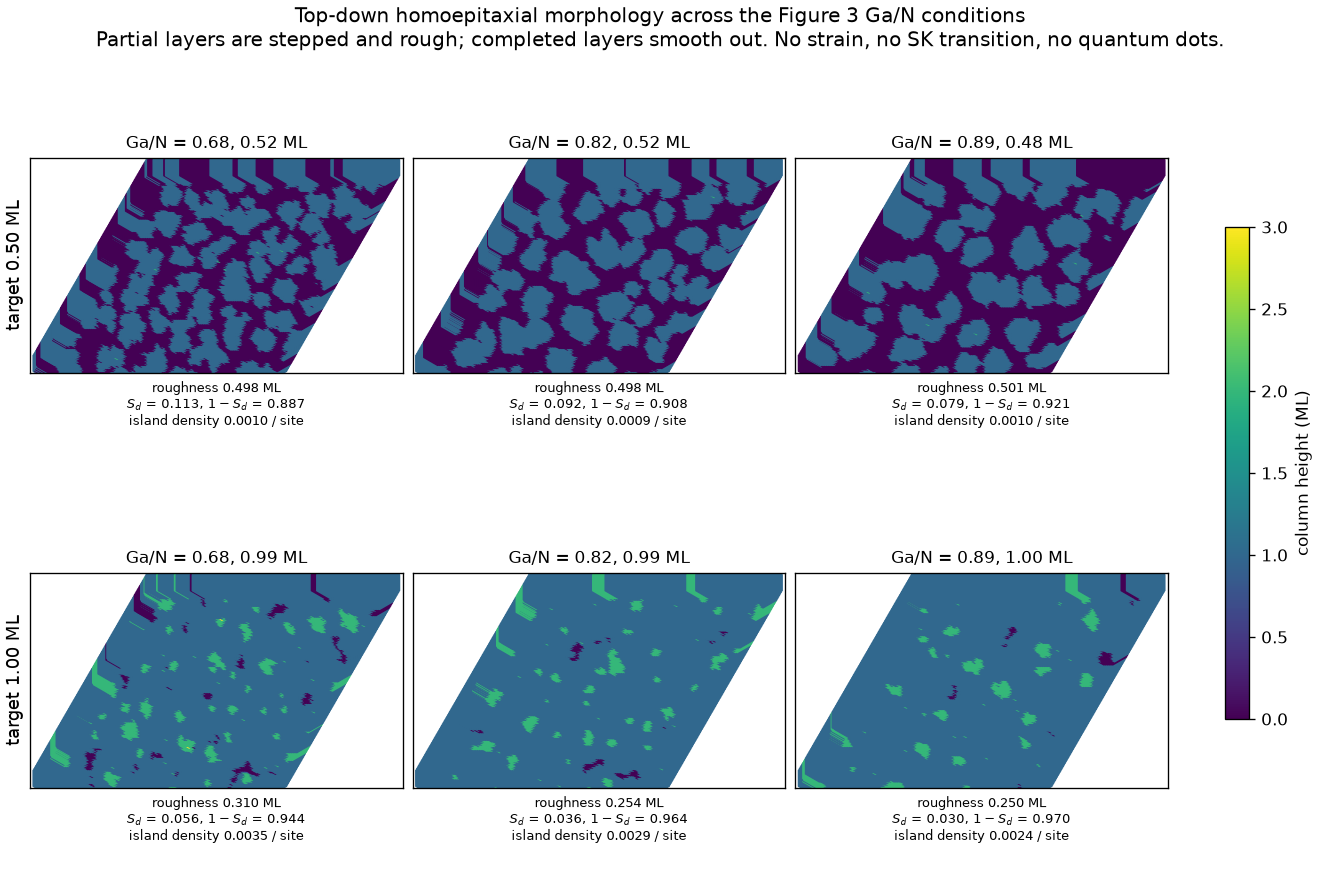
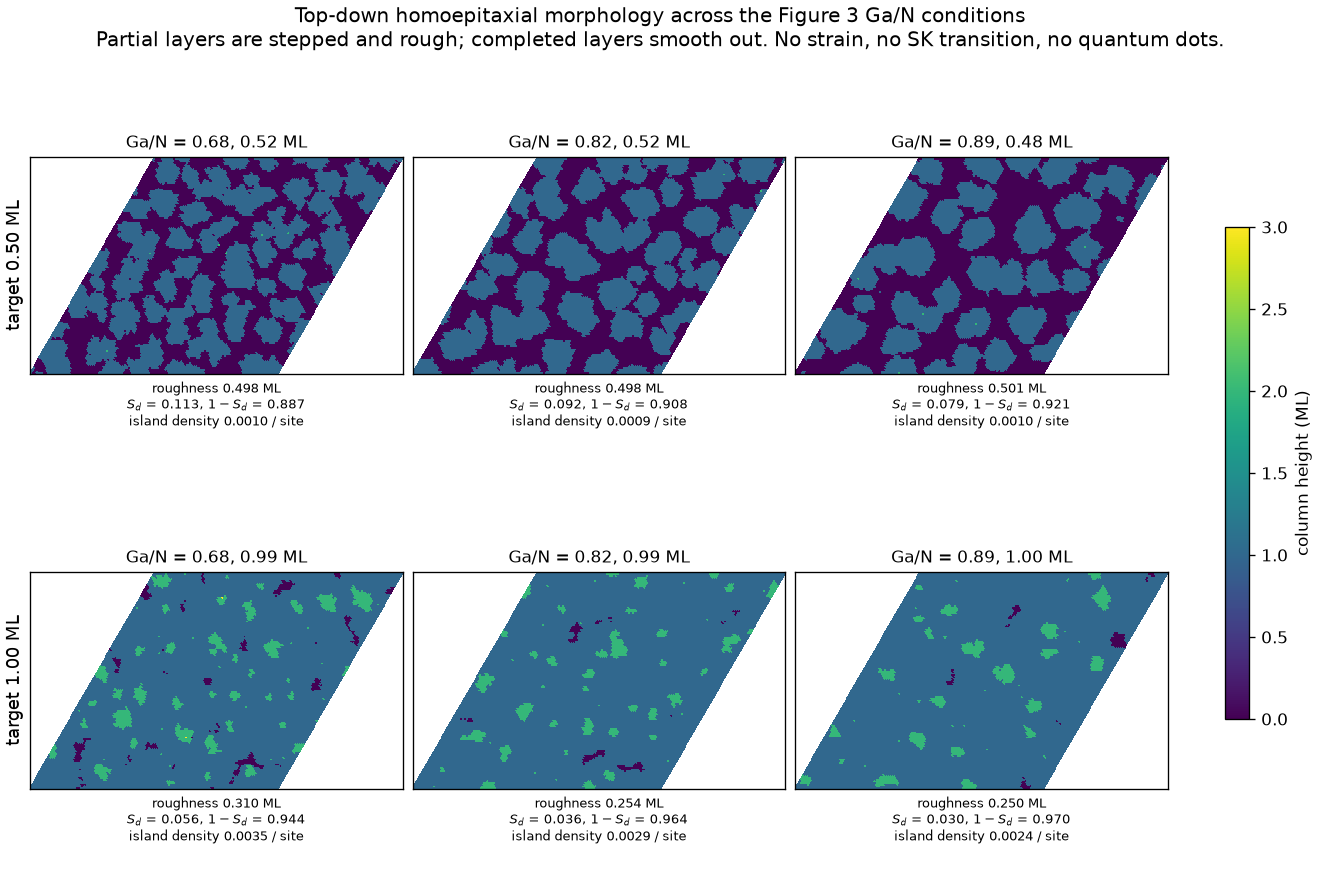
fixes to the plots + add some text

Changed region(s): [[0.0, 0.152, 0.9008, 0.4865], [0.0, 0.6081, 0.9008, 0.9426]]

diff --git a/scripts/figure3_plots.py b/scripts/figure3_plots.py
@@ -12,6 +12,7 @@ import matplotlib
 matplotlib.use("Agg")
 import matplotlib.pyplot as plt
 import numpy as np
+from matplotlib.collections import PolyCollection
 
 MORPHOLOGY_TARGETS_ML = (0.0, 0.5, 1.0, 1.5, 2.0)
 # Rows of the 2x3 montage: a half-filled layer beside a completed one.
@@ -19,6 +20,43 @@ MONTAGE_COVERAGES_ML = (0.5, 1.0)
 # The two figures copied into assets/ by `make readme-figures` are fetched on every GitHub
 # README load, where the column is under 900 px wide, so print resolution only costs bytes.
 README_DPI = 120
+
+
+# The surface is a triangular lattice in axial coordinates, so each site's Voronoi cell is a
+# pointy-top hexagon of circumradius 1/sqrt(3) - flat-to-flat exactly the nearest-neighbour
+# distance, so the cells tile the rhombus without gaps or overlap. Oversized scatter markers
+# used to do this job and smeared the slanted boundaries where they overlapped and clipped.
+_HEX_CELL = np.column_stack(
+    (
+        np.cos(np.deg2rad(np.arange(30.0, 360.0, 60.0))),
+        np.sin(np.deg2rad(np.arange(30.0, 360.0, 60.0))),
+    )
+) / np.sqrt(3.0)
+
+
+def _draw_hex_cells(axis, heights: np.ndarray, maximum_height: int) -> PolyCollection:
+    """Fill one hexagonal cell per lattice site, coloured by that column's integer height."""
+    heights = np.asarray(heights)
+    row, column = np.indices(heights.shape)
+    # Axial to Cartesian: x = q + r/2, y = sqrt(3) r / 2 (column is q, row is r).
+    centers = np.column_stack(
+        (column.ravel() + 0.5 * row.ravel(), np.sqrt(3.0) / 2.0 * row.ravel())
+    )
+    collection = PolyCollection(
+        centers[:, None, :] + _HEX_CELL[None, :, :],
+        array=heights.ravel().astype(float),
+        cmap="viridis",
+        edgecolors="face",
+        linewidths=0.0,
+        antialiaseds=False,
+    )
+    collection.set_clim(0, max(1, maximum_height))
+    axis.add_collection(collection)
+    margin = 1.0 / np.sqrt(3.0)
+    axis.set_xlim(centers[:, 0].min() - margin, centers[:, 0].max() + margin)
+    axis.set_ylim(centers[:, 1].min() - margin, centers[:, 1].max() + margin)
+    axis.set_aspect("equal")
+    return collection
 
 
 def plot_comparison(traces: list[dict[str, object]], figure_dir: Path) -> None:
@@ -119,19 +157,9 @@ def morphology_sequence(
     ]
 
     figure, axes = plt.subplots(1, len(frames), figsize=(12, 2.8), constrained_layout=True)
-    y, x = np.indices(result.final_heights.shape)
     maximum_height = max(max(max(row) for row in frame["height_ml"]) for frame in frames)
     for axis, frame in zip(axes, frames, strict=True):
-        image = axis.scatter(
-            x + 0.5 * y,
-            np.sqrt(3.0) / 2.0 * y,
-            c=np.asarray(frame["height_ml"]),
-            marker="h",
-            s=190,
-            cmap="viridis",
-            vmin=0,
-            vmax=max(1, maximum_height),
-        )
+        image = _draw_hex_cells(axis, np.asarray(frame["height_ml"]), maximum_height)
         axis.set_title(
             f"target {frame['target_predicted_coverage_ml']:.1f} ML\n"
             f"actual {frame['predicted_coverage_ml']:.2f} ML"
@@ -197,21 +225,7 @@ def morphology_montage(runs: list[dict[str, object]], figure_dir: Path) -> dict[
         row = MONTAGE_COVERAGES_ML.index(panel["target_predicted_coverage_ml"])
         column = ratios.index(panel["nominal_ga_n_ratio"])
         axis = axes[row, column]
-        heights = np.asarray(panel["height_ml"])
-        y, x = np.indices(heights.shape)
-        image = axis.scatter(
-            x + 0.5 * y,
-            np.sqrt(3.0) / 2.0 * y,
-            c=heights,
-            marker="h",
-            # One marker per site, deliberately overfilled so the map reads as a continuous
-            # surface at any lattice size. Same convention as `morphology_sequence`, rescaled
-            # from its (128 sites, s=190, 2.4 in) panel to this figure's wider ones.
-            s=5.9e6 / len(heights) ** 2,
-            cmap="viridis",
-            vmin=0,
-            vmax=max(1, maximum_height),
-        )
+        image = _draw_hex_cells(axis, np.asarray(panel["height_ml"]), maximum_height)
         axis.set_title(
             f"Ga/N = {panel['nominal_ga_n_ratio']:.2f}, "
             f"{panel['predicted_coverage_ml']:.2f} ML",

diff --git a/notebooks/mbe_rheed.py b/notebooks/mbe_rheed.py
@@ -528,13 +528,41 @@ def _(
             where $S_d$ is the fraction of unique nearest-neighbor bonds whose endpoint heights
             differ. Smooth, nearly complete layers have fewer steps and a larger proxy.
 
-            Below it there is now also an actual diffraction calculation: the **kinematic**
-            detector image, $|\sum_j \exp(-i\,\mathbf{q}\cdot\mathbf{R}_j)|^2$ summed over
-            the column tops of the same surface. It is single scattering only - real RHEED
-            phase and amplitude also depend on refraction, absorption, surface reconstruction,
-            and strong multiple scattering, none of which are modelled - but it does produce
-            the screen, the streaks, and the specular oscillation from first principles rather
-            than by analogy.
+            Below it there is now also an actual diffraction calculation, and it is a
+            different kind of quantity. The probe is a fast electron, so it arrives as a plane
+            wave $\psi_{\mathrm{in}}\sim e^{i\mathbf{k}_i\cdot\mathbf{r}}$; in the
+            **kinematic** (single-scattering) approximation it scatters once off each surface
+            scatterer and the amplitudes add with the phase of the position they came from,
+
+            $$A(\mathbf q)=\sum_j f_j\,e^{-i\,\mathbf q\cdot\mathbf R_j},\qquad
+            \mathbf q=\mathbf k_f-\mathbf k_i,\qquad I(\mathbf q)=|A(\mathbf q)|^2 .$$
+
+            Squaring the sum is where the quantum mechanics is: $|A|^2$ carries a cross term
+            $2f_if_j\cos\!\big(\mathbf q\cdot(\mathbf R_i-\mathbf R_j)\big)$ for every
+            pair of scatterers, so the screen measures *relative positions*. The proxy above
+            discards those phases; this does not.
+
+            On the specular $(00)$ beam the in-plane part of $\mathbf q$ cancels,
+            $\mathbf q=(0,0,q_z)$ with $q_z=2k\sin\theta_i$, so only the column heights
+            survive and the specular trace becomes a layer-occupancy interferometer. Two
+            terraces one monolayer $d$ apart, covering $1-\theta$ and $\theta$ of the surface,
+            differ in phase by $\Delta\phi=q_zd$:
+
+            $$I=|A_1|^2+|A_2|^2+\underbrace{2A_1A_2\cos(q_zd)}_{\text{interference}} .$$
+
+            At the **anti-phase** condition $q_zd=\pi$ (any odd multiple) the cosine is $-1$,
+            the two populations subtract, and normalising on a flat surface leaves
+            $I_{00}(\theta)=(1-2\theta)^2$: bright on a closed layer, dark at half coverage,
+            bright again as the next layer closes - one oscillation per monolayer with no
+            morphology argument in it. At the **in-phase** condition $q_zd=2\pi$ the cosine is
+            $+1$, filling a layer changes nothing, and the oscillation vanishes, which the
+            **Beam condition** control below switches between. Since the heights are integers, only the parity
+            of $q_zd/\pi$ reaches the specular intensity.
+
+            The calculation is single scattering only - real RHEED phase and amplitude also
+            depend on refraction, absorption, surface reconstruction, and strong multiple
+            scattering, none of which are modelled - but it does produce the screen, the
+            streaks, and the specular oscillation from first principles rather than by analogy.
 
             The annotated 0–2 ML milestones encode the **ideal layer-by-layer hypothesis**. The
             linked morphology and proxy show what this stochastic run actually produces;

diff --git a/tests/test_figure_plots.py b/tests/test_figure_plots.py
@@ -1,0 +1,48 @@
+"""Rendering conventions for the static Figure 3/4 morphology panels."""
+
+import sys
+from pathlib import Path
+
+import numpy as np
+
+# `scripts/` is a directory of entry points, not an installed package.
+sys.path.insert(0, str(Path(__file__).resolve().parents[1] / "scripts"))
+
+import matplotlib.pyplot as plt
+from figure3_plots import _draw_hex_cells
+
+
+def test_hex_cells_tile_every_site_exactly_once() -> None:
+    size = 12
+    heights = np.arange(size * size).reshape(size, size) % 3
+    figure, axis = plt.subplots()
+    try:
+        collection = _draw_hex_cells(axis, heights, int(heights.max()))
+        paths = collection.get_paths()
+        # One hexagonal cell per lattice site, coloured by that site's column height.
+        assert len(paths) == size * size
+        assert np.array_equal(collection.get_array(), heights.ravel().astype(float))
+
+        centers = np.asarray([path.vertices[:6].mean(axis=0) for path in paths])
+        row, column = np.indices(heights.shape)
+        expected = np.column_stack(
+            (column.ravel() + 0.5 * row.ravel(), np.sqrt(3.0) / 2.0 * row.ravel())
+        )
+        assert np.allclose(centers, expected)
+        # Cells are the lattice's Voronoi hexagons, so their areas sum to the rhombus area
+        # exactly: no overlap to smear the slanted boundaries, no gaps between sites.
+        areas = []
+        for path in paths:
+            corners = path.vertices[:6]
+            shifted = np.roll(corners, -1, axis=0)
+            areas.append(
+                0.5
+                * abs(
+                    np.sum(corners[:, 0] * shifted[:, 1] - shifted[:, 0] * corners[:, 1])
+                )
+            )
+        assert np.allclose(areas, np.sqrt(3.0) / 2.0)
+        assert np.isclose(np.sum(areas), size * size * np.sqrt(3.0) / 2.0)
+        assert axis.get_aspect() == 1.0
+    finally:
+        plt.close(figure)

diff --git a/tests/test_rheed.py b/tests/test_rheed.py
@@ -318,6 +318,24 @@ def test_a_half_filled_layer_cancels_at_anti_phase_and_survives_in_phase() -> No
     assert in_phase == pytest.approx(1.0)
 
 
+@pytest.mark.parametrize("coverage", [0.0, 0.25, 0.5, 0.75, 1.0])
+def test_the_two_level_specular_intensity_follows_the_interference_law(coverage: float) -> None:
+    """`I_00 = (1 - 2 theta)^2`, the closed form of the two-terrace interference term.
+
+    On the specular rod `q` is purely vertical, so the in-plane phases cancel and a surface
+    with only heights 0 and 1 has amplitude `(1 - theta) + theta exp(-i q_z d)`. At anti-phase
+    that is `1 - 2 theta`, which is the whole oscillation, derived without any morphology
+    argument. The tolerance covers the finite patch: the Gaussian illumination weights sites,
+    so a random arrangement realizes the nominal coverage only to within its own sampling.
+    """
+    size = 64
+    lattice = np.zeros((size, size), dtype=np.int64)
+    filled = round(coverage * size * size)
+    lattice.ravel()[np.random.default_rng(3).permutation(size * size)[:filled]] = 1
+    intensity = float(rheed.specular_intensity(lattice, grazing_angle_deg=ANGLE))
+    assert intensity == pytest.approx((1.0 - 2.0 * coverage) ** 2, abs=0.01)
+
+
 def test_a_flat_surface_is_the_brightest_the_specular_beam_ever_gets() -> None:
     pattern = rheed.diffraction_screen(
         np.zeros((16, 16), dtype=np.int64), grazing_angle_deg=ANGLE

diff --git a/src/mbe_rheed_sim/rheed.py b/src/mbe_rheed_sim/rheed.py
@@ -112,7 +112,14 @@ all: odd order is the anti-phase condition where adjacent terraces cancel, even 
 in-phase where filling a layer changes nothing. `d` is one KMC monolayer of height, taken as
 the GaN c/2 bilayer spacing 0.2593 nm. Because the heights are integers, only the order's
 parity matters to the specular intensity -- orders 1, 3, 5 give identical traces and differ
-only in geometry. `antiphase_grazing_angle_deg` returns the angle that sets a chosen odd
+only in geometry. The in-plane phases cancel on the specular rod, so a surface holding only
+heights 0 and 1 has amplitude `(1 - theta) + theta exp(-i q_z d)`, and at odd order the
+interference term `2 A_1 A_2 cos(q_z d)` enters with `cos = -1`, leaving the closed form
+
+    I_00(theta) = (1 - 2 theta)^2,
+
+one oscillation per monolayer with no morphology argument in it (tested in
+`tests/test_rheed.py`). Even order gives `cos = +1`, where filling a layer changes nothing. `antiphase_grazing_angle_deg` returns the angle that sets a chosen odd
 order, which is what an experimenter tunes for.
 """
 

diff --git a/README.md b/README.md
@@ -167,6 +167,64 @@ from Adelmann et al., 2002), which is the panel this project digitizes and compa
 can be checked that way is period, phase and damping; absolute amplitude cannot, since the two
 signals are different quantities.
 
+### Where the interference is
+
+`1 - S_d` counts step edges and stops there. The reason a step-edge count tracks a measured
+intensity at all is interference, which is what the diffraction module below actually computes, so
+it is worth writing out once.
+
+The probe is a fast electron, so it arrives as a plane wave `exp(i k_i . r)` and, in the kinematic
+approximation, scatters once off each surface scatterer. The scattered amplitudes add with the
+phase of the position they came from, and the detector measures the squared modulus:
+
+```text
+A(q) = sum_j f_j exp(-i q . R_j),    q = k_f - k_i,    I(q) = |A(q)|^2
+```
+
+Squaring the sum is where the quantum mechanics enters. `|A|^2` is not a count of scatterers: it
+carries one cross term `2 f_i f_j cos(q . (R_i - R_j))` per pair, so the screen reports relative
+positions. Nothing else in this project uses the phases; `S_d` throws them away.
+
+On the specular `(00)` beam the in-plane part of `q` vanishes, `q = (0, 0, q_z)` with
+`q_z = 2 k sin(incidence)`, so every in-plane position drops out and only the column heights
+survive. That is why the specular trace is a *layer-occupancy* interferometer. For two terraces one
+monolayer `d` apart, covering fractions `1 - theta` and `theta` of the surface:
+
+```text
+delta_phi = q_z d
+A         = A_1 + A_2 exp(-i delta_phi)
+I         = |A_1|^2 + |A_2|^2 + 2 A_1 A_2 cos(q_z d)
+```
+
+That last term is the oscillation. At the **anti-phase** condition `q_z d = pi` (or any odd
+multiple) the cosine is `-1`, the two populations subtract, and normalizing on a flat surface
+leaves the closed form
+
+```text
+I_00(theta) = (1 - 2 theta)^2
+```
+
+which is 1 on a closed layer, 0 at half coverage, and 1 again when the next layer closes: one
+oscillation per monolayer, with no morphology argument anywhere in it. At the **in-phase**
+condition `q_z d = 2 pi` the cosine is `+1`, filling a layer changes nothing, and the oscillation
+disappears - which is why the grazing angle is an experimental knob and why
+`antiphase_grazing_angle_deg` exists. Because KMC heights are integers, only the parity of
+`q_z d / pi` reaches the specular intensity: orders 1, 3, 5 give the same trace.
+
+`1 - S_d` is the classical shadow of that cosine. It is large when one height dominates and small
+when two heights share the surface, so it follows the same flat -> mixed -> flat sequence for a
+geometric reason instead of an interference one - which is also why its amplitude is a different
+quantity from a measured intensity. Both come off the same height field:
+
+```text
+KMC height field  ->  1 - S_d                              morphology proxy, no wave
+                  ->  |sum_j f_j exp(-i q . R_j)|^2        kinematic interference
+```
+
+The two-level formula above is only the illustrative case; `rheed.py` sums the real height
+distribution over the whole illuminated patch, which is what produces damping as the surface
+roughens past two levels.
+
 ### The kinematic diffraction screen
 
 Separately from the proxy, [`rheed.py`](src/mbe_rheed_sim/rheed.py) computes what a detector
